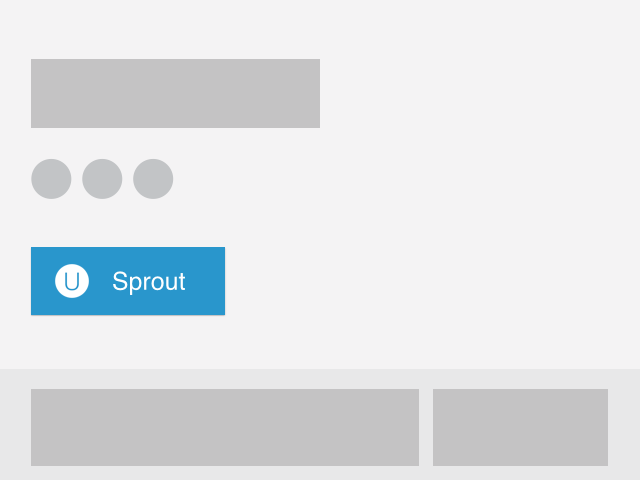
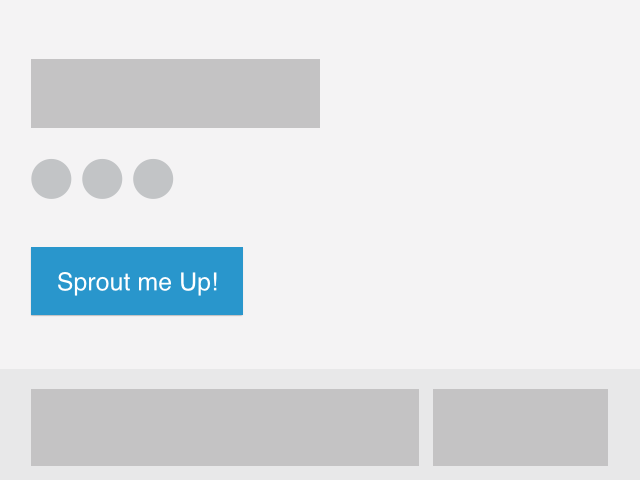
perks page content modify

Changed region(s): [[0.0625, 0.5, 0.4062, 0.6562]]

diff --git a/app/views/perk.scala.html b/app/views/perk.scala.html
@@ -39,8 +39,8 @@
             <div class="row how-it-works--main">
                 <div class="col-sm-4 how-it-works--content">
                     <img src="@routes.Assets.at("images/perk/share-product-1.png")" class="img-responsive">
-                    <h1>"U Sprout"<h1>
-                    <p>Pick products you love and look for the "U Sprout" button.</p>
+                    <h1>"Sprout me Up"<h1>
+                    <p>Pick products you love and look for the "Sprout me Up!" button.</p>
                 </div>
                 <div class="col-sm-4 how-it-works--content">
                     <img src="@routes.Assets.at("images/perk/share-product-2.png")" class="img-responsive">
